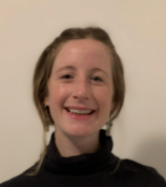
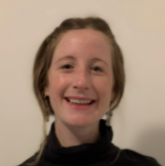
Fix about photos

diff --git a/public/stylesheets/main.css b/public/stylesheets/main.css
@@ -608,6 +608,8 @@ h3.indent{
 
 .person .photo img{
   border-radius: 100%;
+  width: 100%;
+  height: 100%;
 }
 
 .person > .text{
